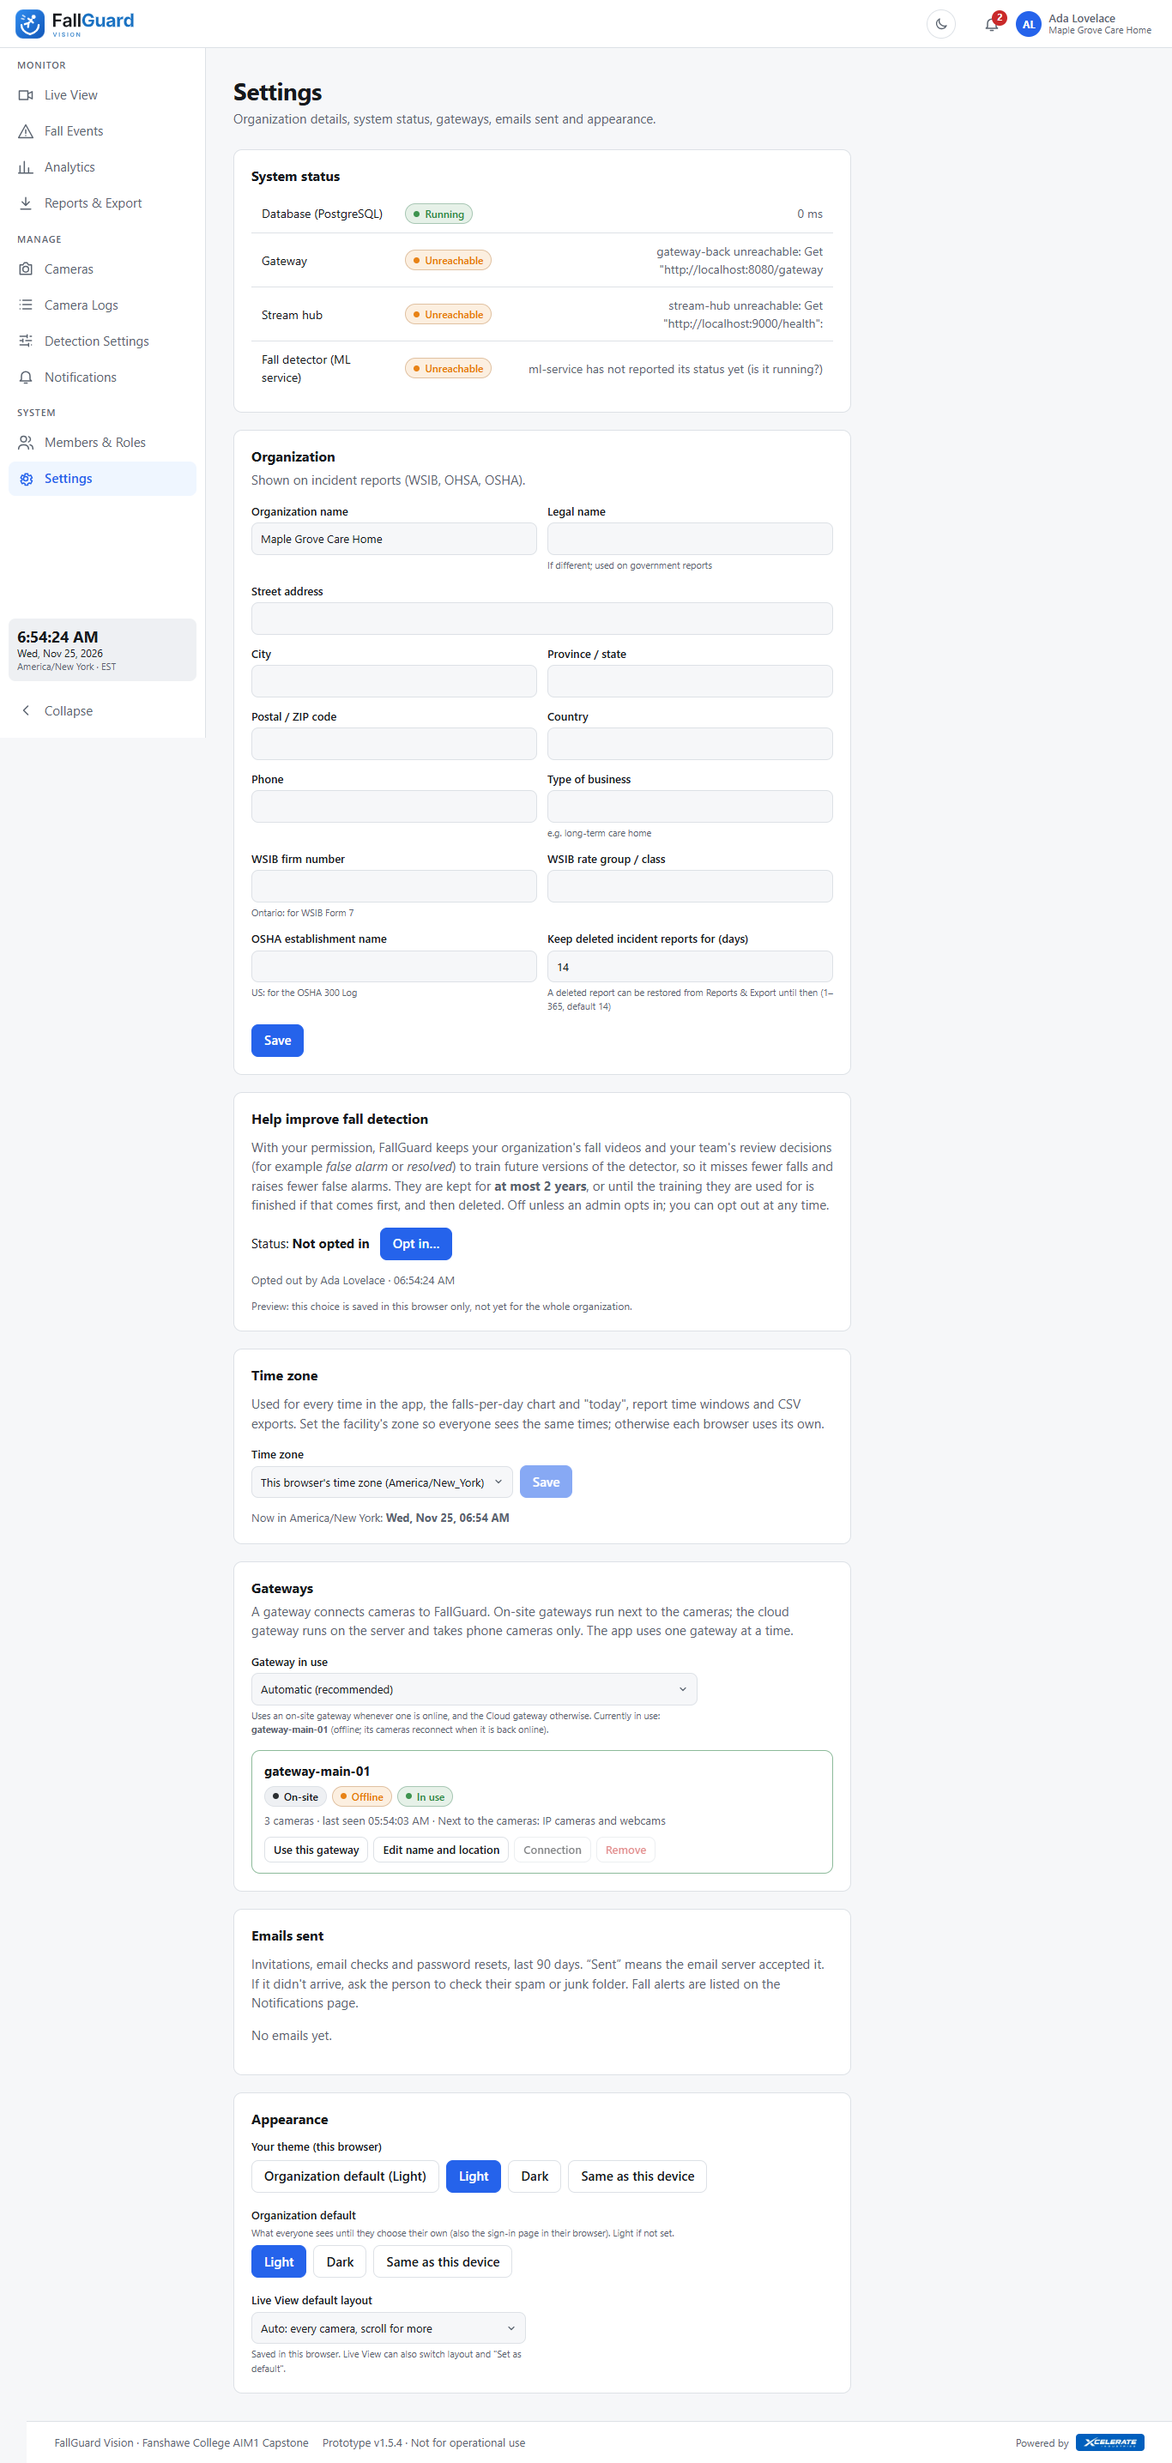
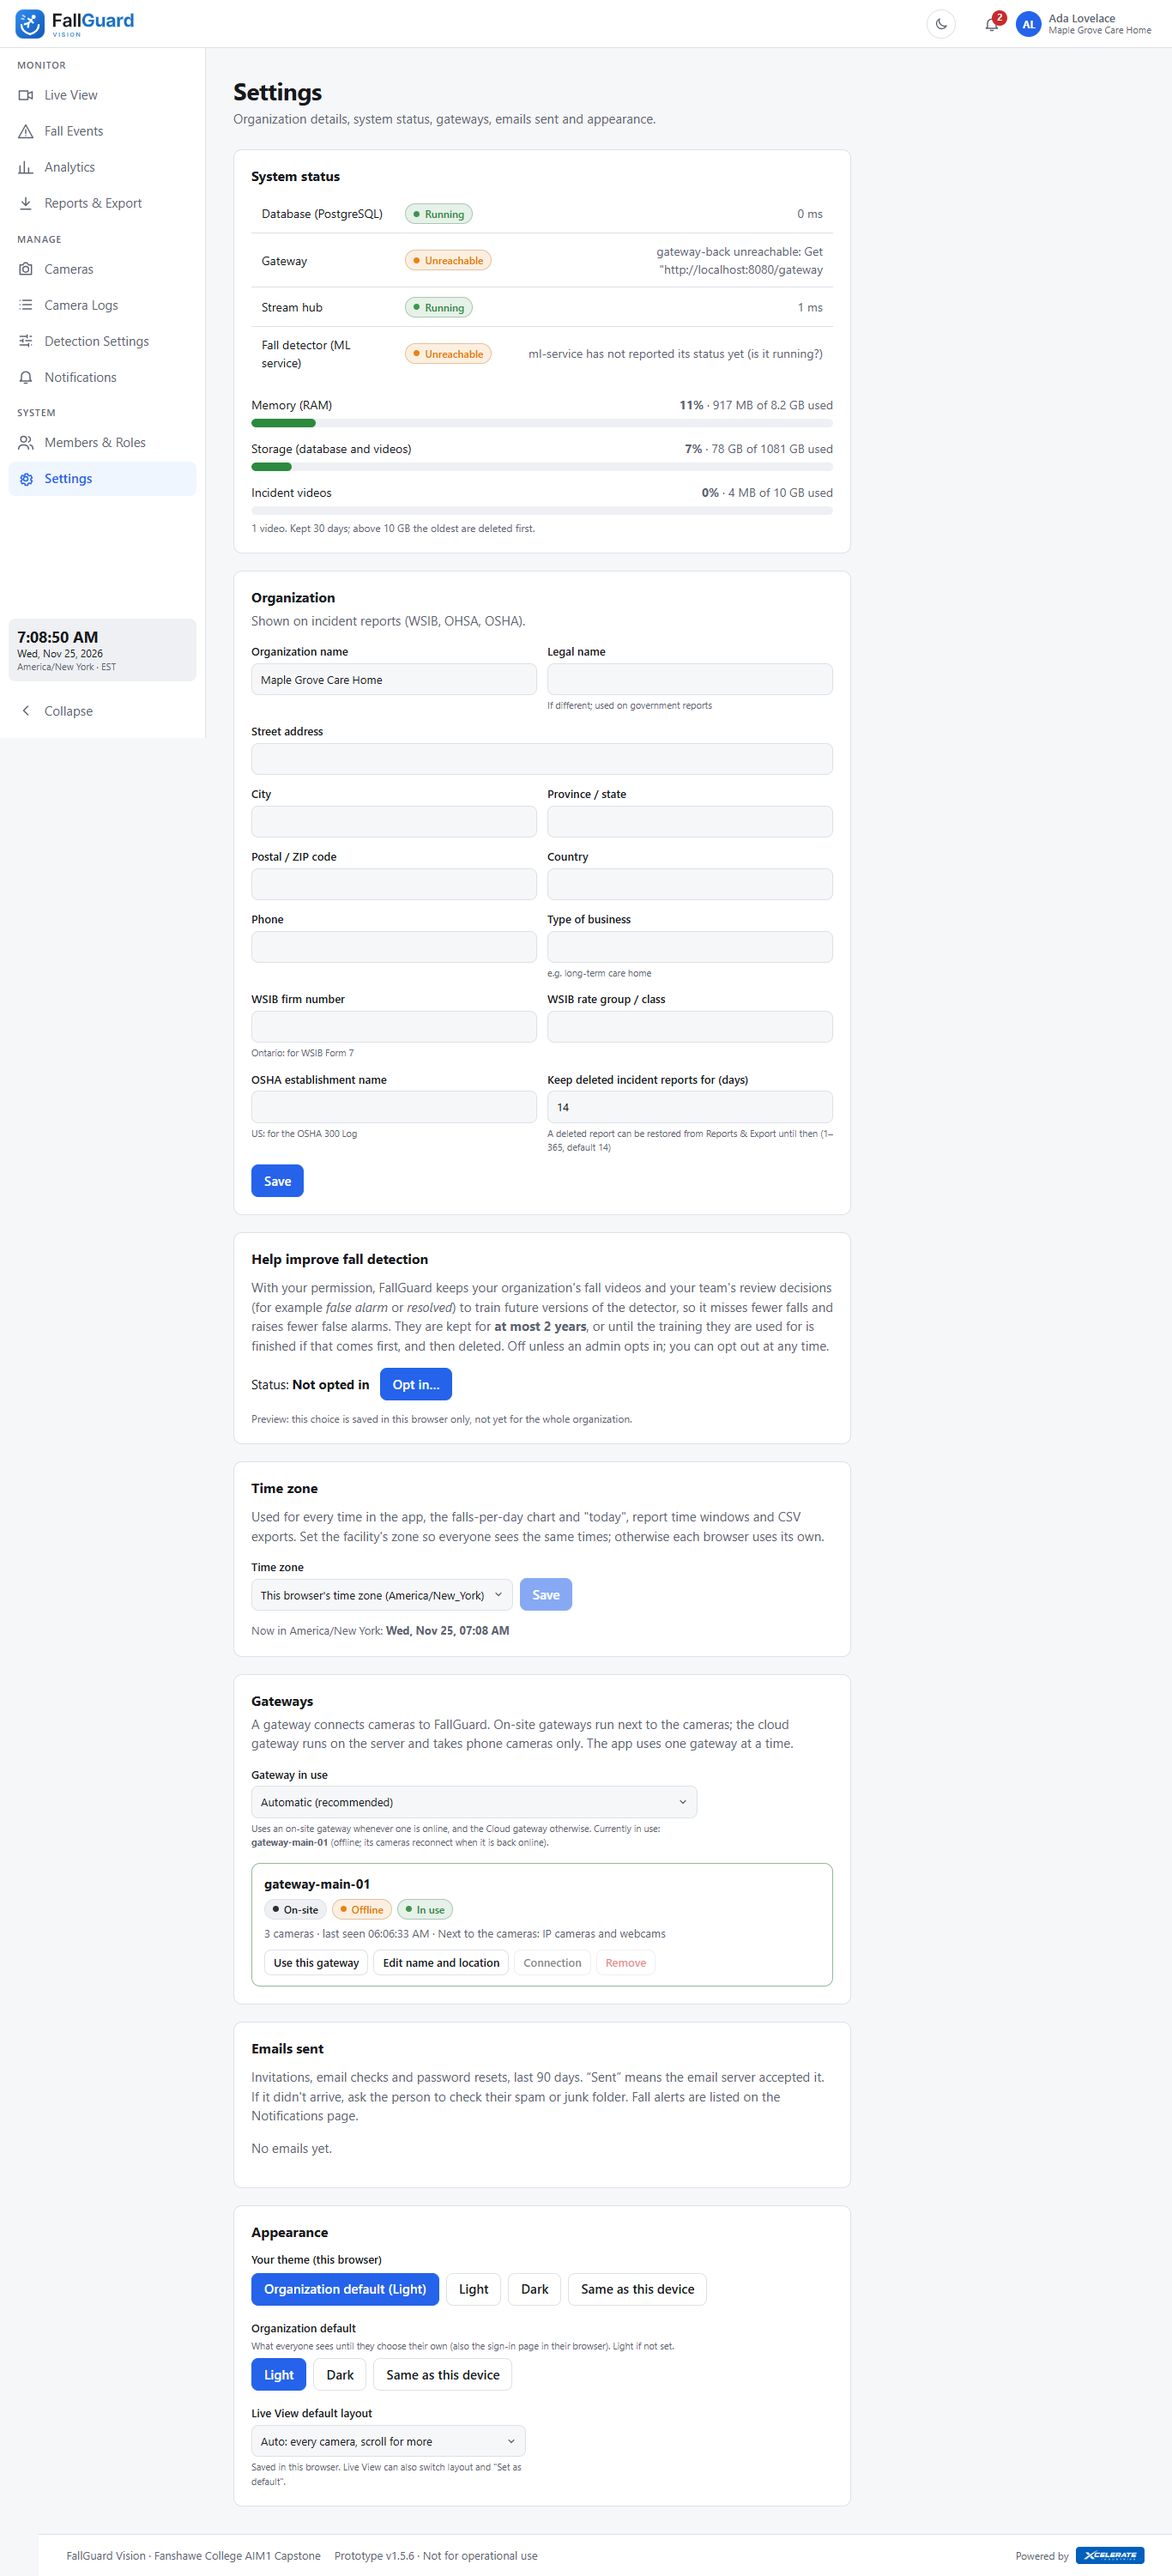
feat(frontend): memory, storage and incident video bars in Settings -> System status
Each shows "% - used of total" (amber from 75%, red from 90%) with a hint when it fills up:
keep videos for fewer days or add disk space; a larger server when memory stays high.
Screenshot 15 refreshed.

diff --git a/fallguard-frontend/src/features/settings/ResourceBars.tsx b/fallguard-frontend/src/features/settings/ResourceBars.tsx
@@ -1,0 +1,53 @@
+import type { Resources } from '../../types/domain';
+
+const GB = 1e9;
+/** 512 MB, 1.4 GB, 32 GB */
+const size = (bytes: number) =>
+  bytes < GB ? `${Math.round(bytes / 1e6)} MB` : `${(bytes / GB).toFixed(bytes >= 10 * GB ? 0 : 1)} GB`;
+
+/** One "used of total" bar: green, then amber from 75%, red from 90%. */
+function Bar({ label, used, total, hint }: { label: string; used: number; total: number; hint?: string }) {
+  const pct = total > 0 ? Math.min(100, Math.round((used / total) * 100)) : 0;
+  const level = pct >= 90 ? 'danger' : pct >= 75 ? 'warn' : 'ok';
+  return (
+    <div className="res">
+      <div className="res__head">
+        <span>{label}</span>
+        <span className="muted"><strong className={`res__pct res__pct--${level}`}>{pct}%</strong> · {size(used)} of {size(total)} used</span>
+      </div>
+      <div className="res__track" role="meter" aria-label={label} aria-valuemin={0} aria-valuemax={100} aria-valuenow={pct}
+        aria-valuetext={`${pct}% used, ${size(used)} of ${size(total)}`}>
+        <div className={`res__fill res__fill--${level}`} style={{ width: `${pct}%` }} />
+      </div>
+      {hint && <p className="res__hint muted">{hint}</p>}
+    </div>
+  );
+}
+
+/** Server memory, disk and incident videos (Settings → System status). */
+export function ResourceBars({ r }: { r?: Resources }) {
+  if (!r || (!r.memory && !r.disk && !r.videos)) return null;
+  const v = r.videos;
+  const memPct = r.memory ? r.memory.used / r.memory.total : 0;
+  const diskPct = r.disk ? r.disk.used / r.disk.total : 0;
+  const videoLimit = v && v.max_total_gb > 0 ? v.max_total_gb * GB : 0;
+  return (
+    <div className="res-list">
+      {r.memory && (
+        <Bar label="Memory (RAM)" used={r.memory.used} total={r.memory.total}
+          hint={memPct >= 0.9 ? 'Nearly full: the server may slow down or restart services. Consider a larger server.' : undefined} />
+      )}
+      {r.disk && (
+        <Bar label="Storage (database and videos)" used={r.disk.used} total={r.disk.total}
+          hint={diskPct >= 0.75 ? 'Filling up: keep videos for fewer days, or add disk space.' : undefined} />
+      )}
+      {v && (videoLimit > 0 ? (
+        <Bar label="Incident videos" used={v.clip_bytes} total={videoLimit}
+          hint={`${v.clips} video${v.clips === 1 ? '' : 's'}. Kept ${v.retention_days > 0 ? `${v.retention_days} days` : 'until removed'}; above ${v.max_total_gb} GB the oldest are deleted first.`} />
+      ) : (
+        <p className="res__hint muted">Incident videos: {size(v.clip_bytes)} in {v.clips} video{v.clips === 1 ? '' : 's'}
+          {v.retention_days > 0 ? `, kept ${v.retention_days} days` : ''}.</p>
+      ))}
+    </div>
+  );
+}

diff --git a/fallguard-frontend/src/components/ui/ui.css b/fallguard-frontend/src/components/ui/ui.css
@@ -114,3 +114,16 @@
 .confirm-dialog__title { margin: 0 0 8px; font-size: 18px; }
 .confirm-dialog__body { margin: 0 0 18px; color: var(--text-muted); line-height: 1.5; }
 .confirm-dialog__actions { display: flex; flex-wrap: wrap; gap: 8px; align-items: center; }
+
+/* Settings -> System status: memory / storage bars */
+.res-list { display: grid; gap: 14px; margin-top: 18px; }
+.res__head { display: flex; flex-wrap: wrap; justify-content: space-between; gap: 4px 12px; font-size: 14px; margin-bottom: 6px; }
+.res__track { height: 10px; border-radius: 99px; background: var(--surface-2); overflow: hidden; }
+.res__fill { height: 100%; border-radius: 99px; transition: width .4s ease; }
+.res__fill--ok { background: var(--ok); }
+.res__fill--warn { background: var(--warn); }
+.res__fill--danger { background: var(--danger); }
+.res__pct--warn { color: var(--warn); }
+.res__pct--danger { color: var(--danger); }
+.res__hint { margin: 6px 0 0; font-size: 12px; }
+@media (prefers-reduced-motion: reduce) { .res__fill { transition: none; } }

diff --git a/fallguard-frontend/src/features/settings/SettingsPage.tsx b/fallguard-frontend/src/features/settings/SettingsPage.tsx
@@ -4,6 +4,7 @@ import { StatusBadge } from '../../components/ui/StatusBadge';
 import { useUiStore, type LiveLayout, type Theme } from '../../store/uiStore';
 import { TimeZoneSettings } from './TimeZoneSettings';
 import { ModelTrainingSettings } from './ModelTrainingSettings';
+import { ResourceBars } from './ResourceBars';
 import { OrgProfileSettings } from './OrgProfileSettings';
 import { EmailsSentSettings } from './EmailsSentSettings';
 import { GatewaysSettings } from './GatewaysSettings';
@@ -93,6 +94,7 @@ export default function SettingsPage() {
               </tbody>
             </table>
           )}
+          <ResourceBars r={health?.resources} />
         </section>
 
         <OrgProfileSettings editable={manage} />

diff --git a/fallguard-frontend/src/types/domain.ts b/fallguard-frontend/src/types/domain.ts
@@ -204,6 +204,15 @@ export interface Health {
   ok: boolean;
   tenant: string;
   services: Record<string, ServiceCheck>;
+  /** The server's memory and disk, and the incident videos (bytes). Missing where not measured. */
+  resources?: Resources;
+}
+
+export interface ResourceUsage { total: number; used: number }
+export interface Resources {
+  memory?: ResourceUsage;
+  disk?: ResourceUsage;
+  videos?: { clip_bytes: number; clips: number; max_total_gb: number; retention_days: number };
 }
 
 /** Detection settings changed in this app. A missing value = config.yaml's. */
